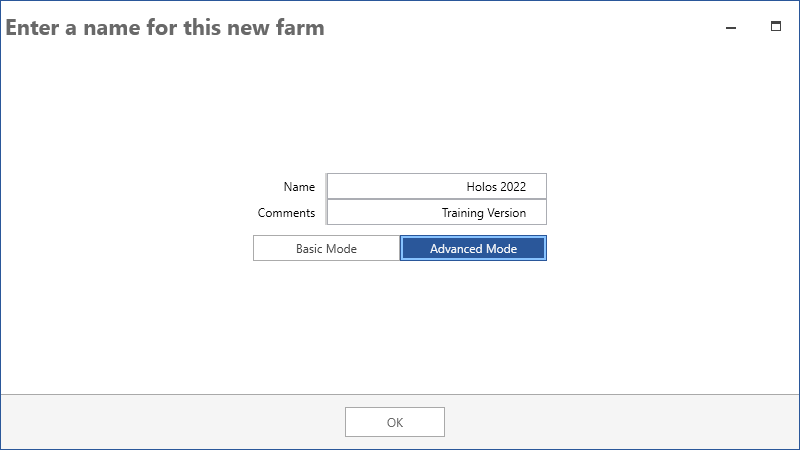
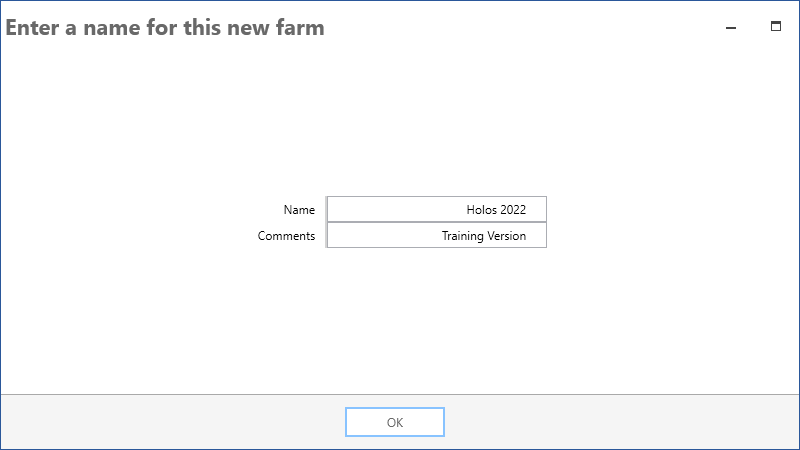
Update figure 1 and text to remove reference to basic/advanced mode

Changed region(s): [[0.3125, 0.3733, 0.6875, 0.5911], [0.4375, 0.9644, 0.5625, 0.9956], [0.4375, 0.9022, 0.5625, 0.9333]]

diff --git a/H.Content/Documentation/Training/Holos_4_Training_Guide.md b/H.Content/Documentation/Training/Holos_4_Training_Guide.md
@@ -14,7 +14,7 @@ Please note that Holos 4 can be installed on a Microsoft Windows PC only. Mac OS
 
 Launch Holos by double-clicking on the Holos desktop icon. If there are no saved farms in the system, Holos will create a new farm and ask the user for a farm name and an optional comment (Figure 1). If there is already a saved farm in the system, Holos will ask the user to open the existing farm or to create a new farm (Figure 2). 
 
-Enter “**Holos 2022**” as a farm name and “**training version**” as the “**comment**”. Ensure to click the “**Advanced Mode**” button so that additional features and functionality will be available. Click “**Ok**” to proceed to the next screen
+Enter “**Holos 2022**” as a farm name and “**training version**” as the “**comment**”.  Click “**Ok**” to proceed to the next screen
 
 Ensure “**Metric**” is selected as the unit of measurement type and then click the “**Next**” button at the bottom of the screen (Figure 3). 
 
@@ -82,7 +82,7 @@ The beef farm for this example is located between Winnipeg and Portage la Prairi
 </p>
 
 <p align="center">
-    <img src="../../Images/Training/en/figure6.png" alt="Figure 6" width="950"/>
+    <img src="../../Images/Training/en/figure6.gif" alt="Figure 6" width="950"/>
     <br>
     <em>Figure 6: Specifying a polygon ID using the option button.</em>
 </p>  
@@ -134,7 +134,7 @@ Now we can add our first component to the farm. Drag a “Field” component fro
 
 
 <p align="center">
-    <img src="../../Images/Training/en/figure9.png" alt="Figure 9" width="950"/>
+    <img src="../../Images/Training/en/figure9.gif" alt="Figure 9" width="950"/>
     <br>
     <em>Figure 9: Adding a component to the farm.</em>
 </p> 
@@ -170,7 +170,7 @@ Our first field on the farm will grow continuous wheat with a cover crop of hair
 
 <br>
 <p align="center">
-    <img src="../../Images/Training/en/figure11.png" alt="Figure 11" width="950"/>
+    <img src="../../Images/Training/en/figure11.gif" alt="Figure 11" width="950"/>
     <br>
     <em>Figure 11: Adding fertilizer to a field.</em>
 </p> 
@@ -197,7 +197,7 @@ The cow-calf operation (defined later on) relies on native pasture for the summe
 
 <br>
 <p align="center">
-    <img src="../../Images/Training/en/figure12.png" alt="Figure 12" width="950"/>
+    <img src="../../Images/Training/en/figure12.gif" alt="Figure 12" width="950"/>
     <br>
     <em>Figure 12: Native Grasslands information.</em>
 </p> 
@@ -401,7 +401,7 @@ Click on the **Bulls** row in the animal group section **Step 1**. Information r
 
 <br>
 <p align="center">
-    <img src="../../Images/Training/en/figure17.png" alt="Figure 17" width="950"/>
+    <img src="../../Images/Training/en/figure17.gif" alt="Figure 17" width="950"/>
     <br>
     <em>Figure 17: Copying data from another animal group</em>
 </p> 
